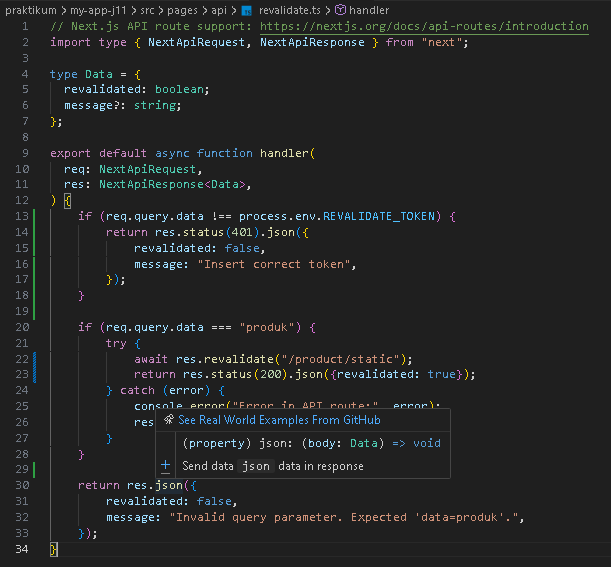
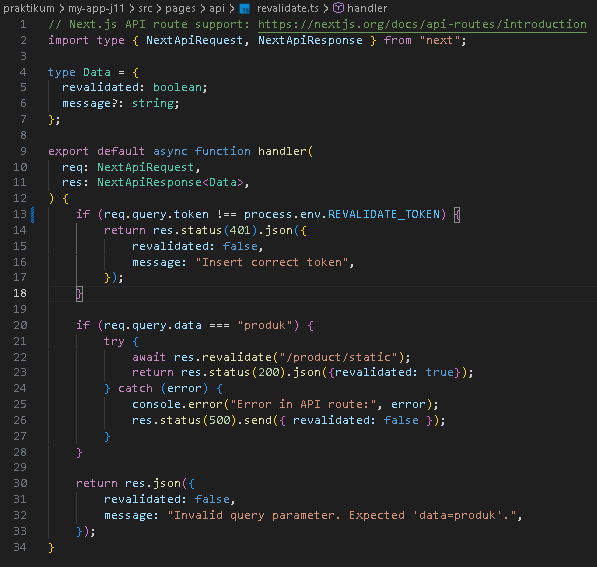
Jobsheet 11 - Pengujian Manual Revalidation (Bagian E)

diff --git a/praktikum/my-app-j11/src/pages/api/revalidate.ts b/praktikum/my-app-j11/src/pages/api/revalidate.ts
@@ -10,7 +10,7 @@ export default async function handler(
   req: NextApiRequest,
   res: NextApiResponse<Data>,
 ) {
-    if (req.query.data !== process.env.REVALIDATE_TOKEN) {
+    if (req.query.token !== process.env.REVALIDATE_TOKEN) {
         return res.status(401).json({
             revalidated: false,
             message: "Insert correct token",
@@ -19,7 +19,7 @@ export default async function handler(
 
     if (req.query.data === "produk") {
         try {
-            await res.revalidate("/product/static");
+            await res.revalidate("/produk/static");
             return res.status(200).json({revalidated: true});
         } catch (error) {
             console.error("Error in API route:", error);

diff --git a/praktikum/my-app-j11/README.md b/praktikum/my-app-j11/README.md
@@ -45,3 +45,11 @@
 
 ### Langkah 3 – Tambahkan Token Security
 ![1](public/img/7.png)
+
+## E. Pengujian Manual Revalidation
+
+- Hasil jika benar
+![1](public/img/8.png)
+
+- Hasil jika salah
+![1](public/img/9.png)
